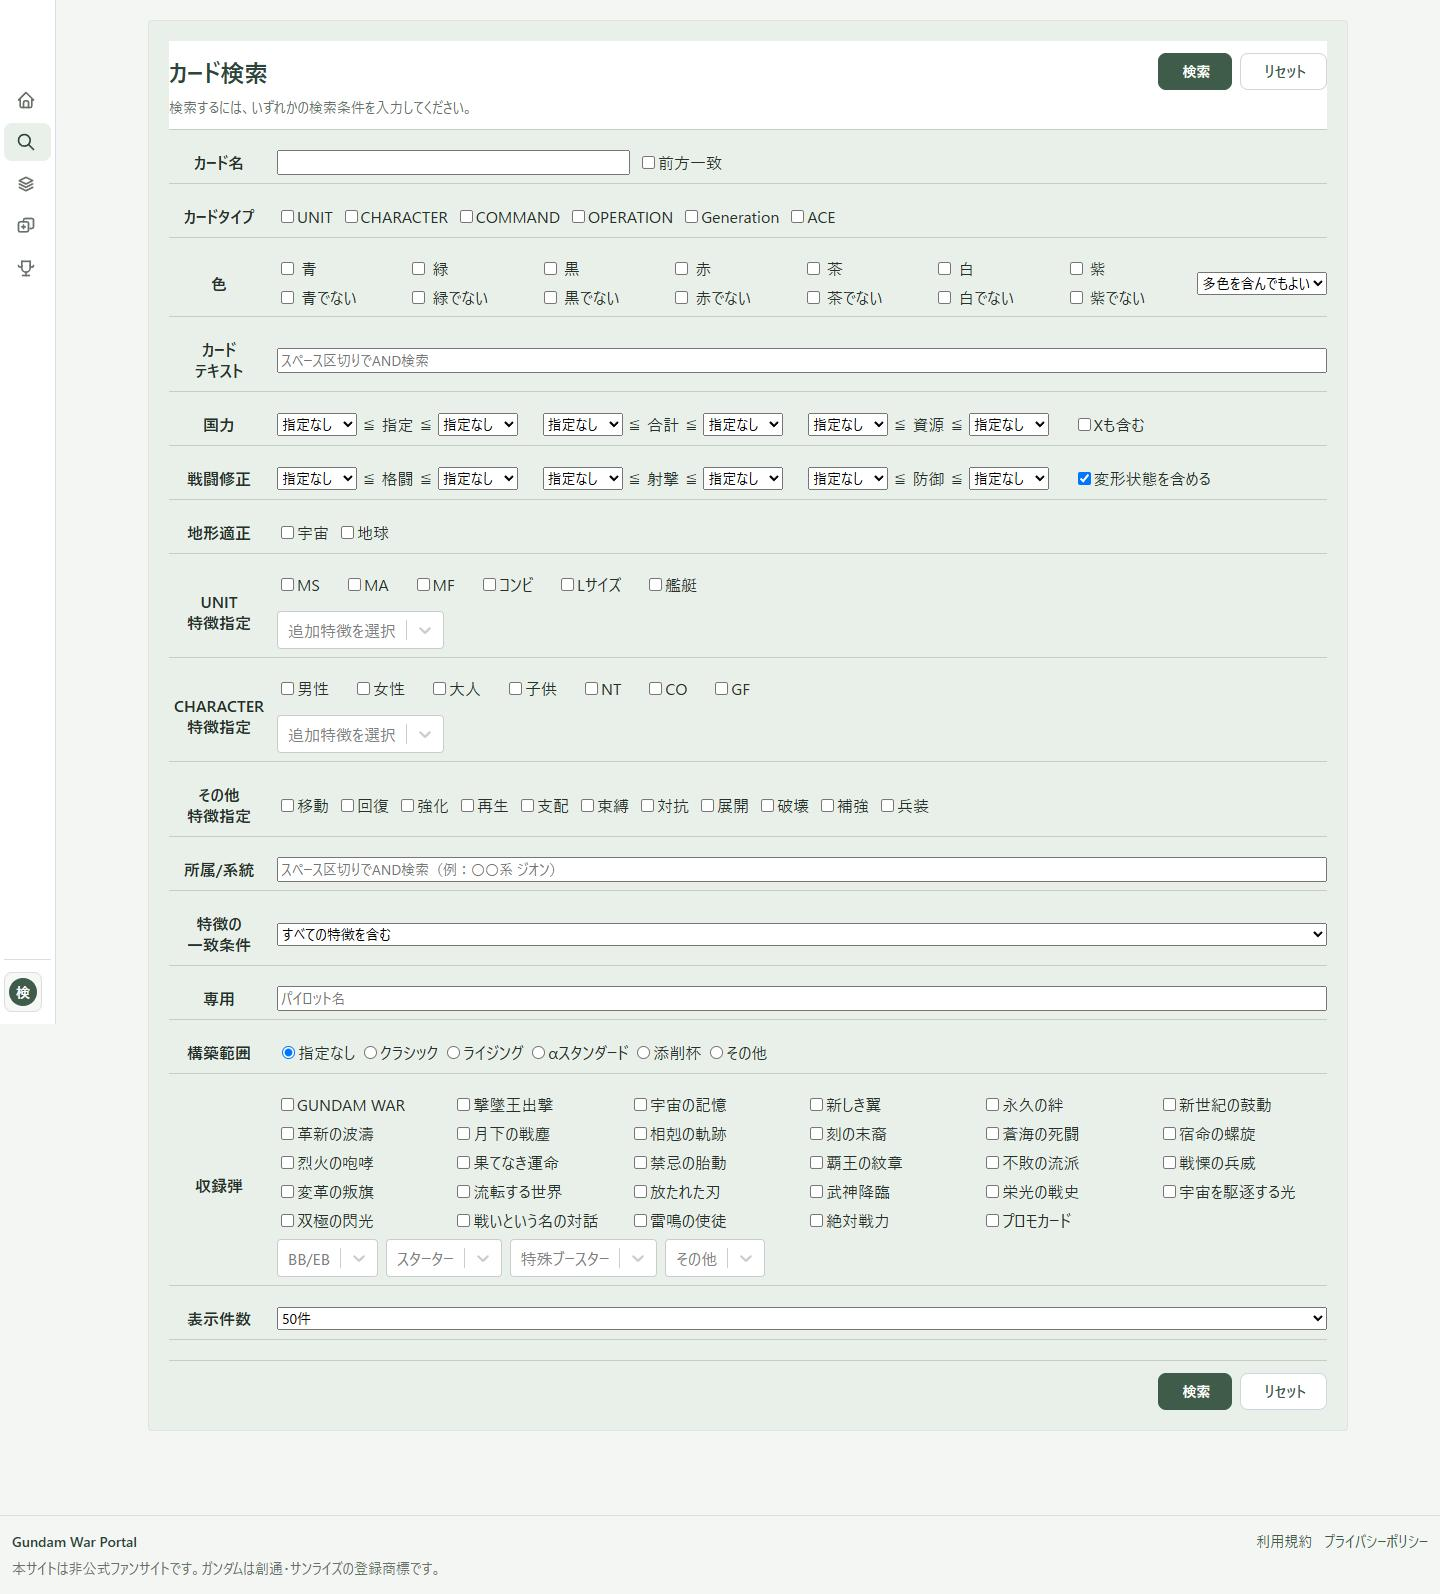
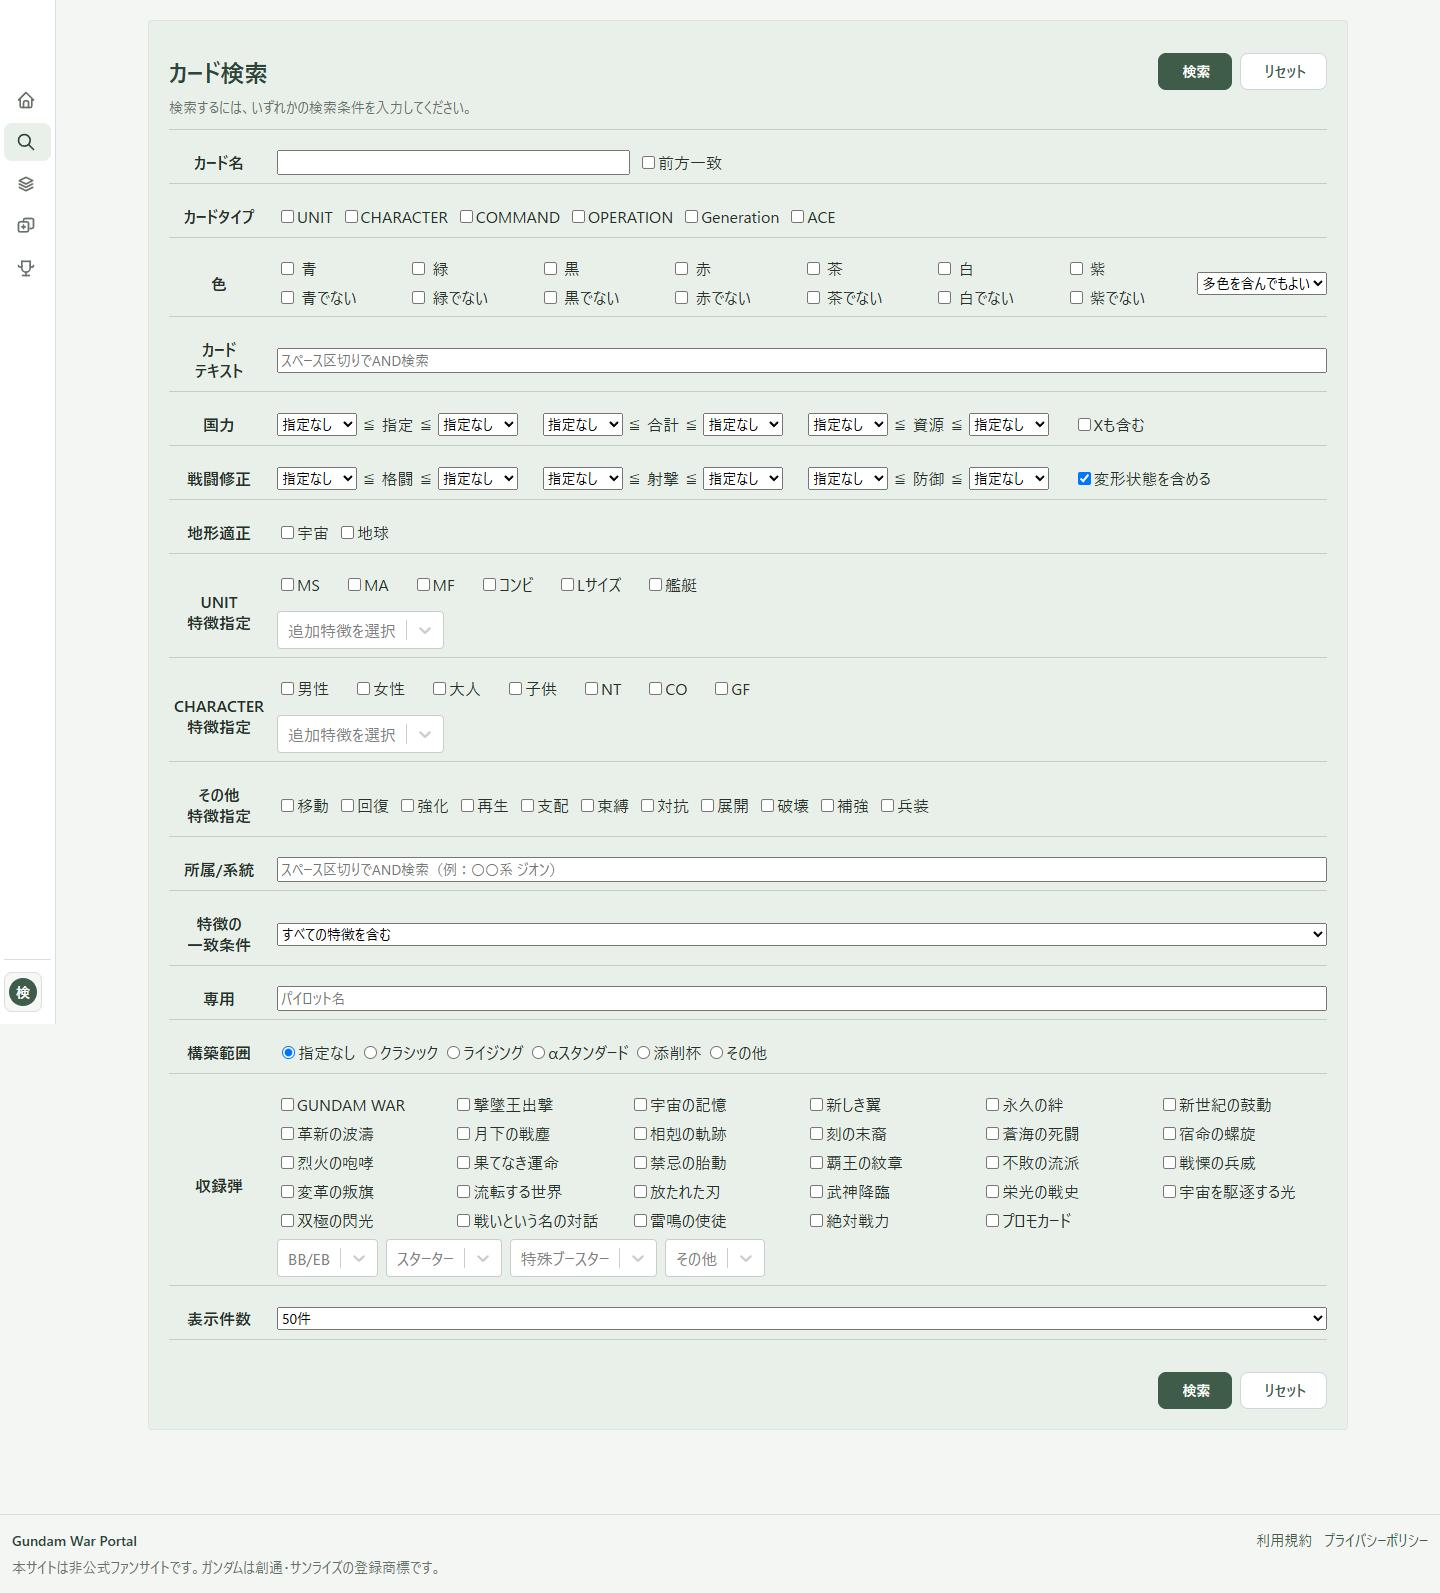
Blend search header background and remove duplicate divider

diff --git a/docs/ux-audit/2026-09-08/index.html b/docs/ux-audit/2026-09-08/index.html
@@ -12,6 +12,7 @@
 <p>一般ユーザーとして検索・デッキ保存・大会参加を検証。主催者・管理者ページは別の検証ロールで確認しました。</p>
 <p class="note">実装済み画面のスクリーンショットです。デザインの生成画像ではありません。画像を選ぶと原寸表示できます。</p>
 <p class="note">追加修正：PC「01 ホーム」のボタンサイズと、スマホ「06 大会一覧」の日付サイズを統一。該当する改善後画像を更新しています。</p>
+<p class="note">9月9日追記：「02 カード検索」の白い見出し帯を周囲の薄緑に揃え、最下部の二重罫線を1本に整理。PC・スマホの画像を更新しました。</p>
 <p><a href="README.md">検証レポートを読む</a></p>
 <nav aria-label="表示サイズ"><button type="button" data-device="mobile" aria-pressed="true">スマートフォン 390px</button><button type="button" data-device="desktop" aria-pressed="false">PC 1440px</button></nav>
 </header>
@@ -23,7 +24,7 @@
 <script>
 const pages=[
  ['home','01 ホーム','PCの「一覧へ・詳細・観戦・検索」を72×40px、文字14pxに統一。スマホは見出し横の一覧リンクを維持。'],
- ['search','02 カード検索','入力欄25px→44px。カードタイプは2列、ラベルは左揃え。検索条件の復元も確認。'],
+ ['search','02 カード検索','見出し背景を薄緑に統一し、下部の二重罫線を1本に。スマホ入力欄44px・2列配置・追従する検索ボタンは維持。'],
  ['builder','03 デッキ構築','実カードの検索・追加・保存・再読み込み、基本G追加を確認。'],
  ['public-decks','04 公開デッキ一覧','ページ見出しを明確化。プレイヤー絞り込みと結果への復帰を確認。'],
  ['public-detail','05 公開デッキ詳細','見出しを拡大。コピーで50枚のデッキを構築画面へ取り込めることを確認。'],

diff --git a/src/App.css b/src/App.css
@@ -24,7 +24,7 @@
   top: 0;
   z-index: 5;
   /* 追従中に下の入力欄が透けないよう背景を必ず塗る */
-  background: var(--gw-surface);
+  background: var(--gw-primary-soft);
   padding-top: var(--gw-space-sm);
   display: grid;
   grid-template-columns: minmax(0, 1fr) auto;
@@ -77,6 +77,11 @@
   justify-content: flex-end;
   border-top: var(--gw-border-width) solid var(--gw-border-strong);
   padding-top: var(--gw-space-sm);
+}
+
+/* 表示件数の行にある下線を使い、操作欄との区切りを二重にしない。 */
+.grid-form > .form-row + .search-form-footer {
+  border-top: 0;
 }
 
 .search-hint {
